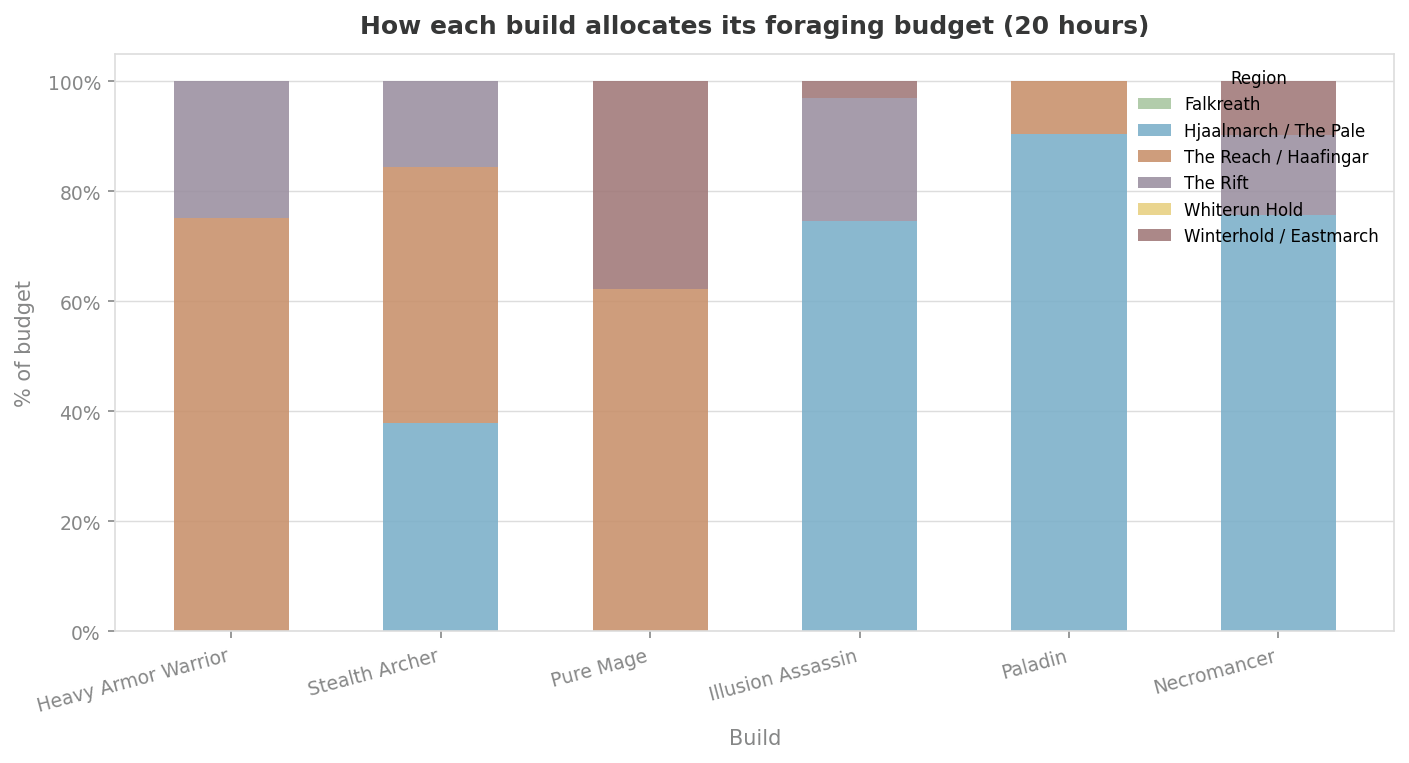
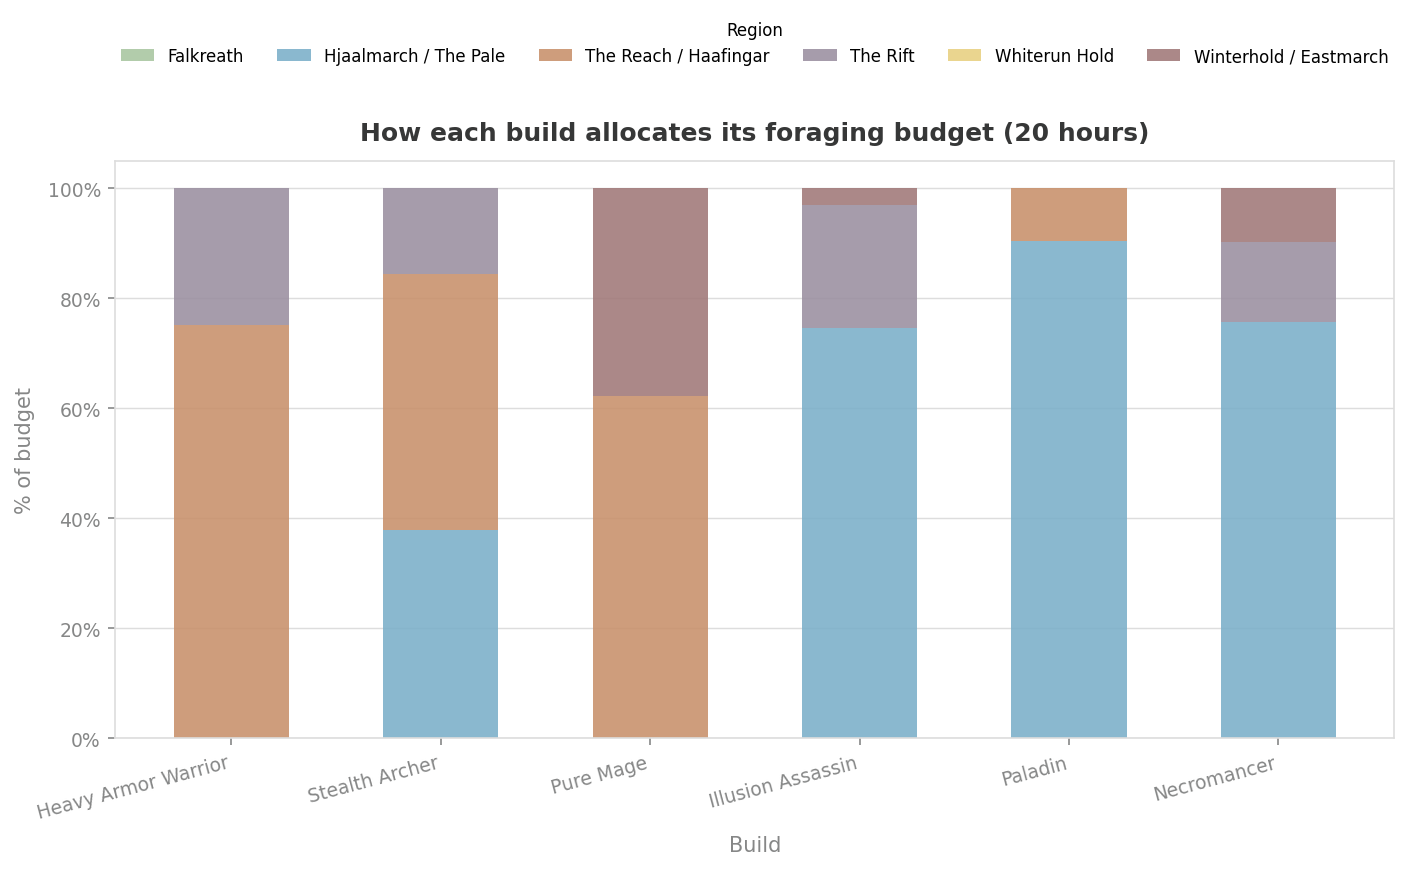
Move region allocation legend above chart

diff --git a/analysis/skyrim-alchemy/analyze.py b/analysis/skyrim-alchemy/analyze.py
@@ -311,7 +311,10 @@ def chart_region_allocation(results: list[LPResult]):
         xlabel="Build",
         ylabel="% of budget",
     )
-    ax.legend(fontsize=8, frameon=False, loc="upper right", title="Region", title_fontsize=8)
+    ax.legend(
+        fontsize=8, frameon=False, title="Region", title_fontsize=8,
+        loc="lower center", bbox_to_anchor=(0.5, 1.14), ncol=len(regions),
+    )
 
     save(fig, "region_allocation.png")
 
